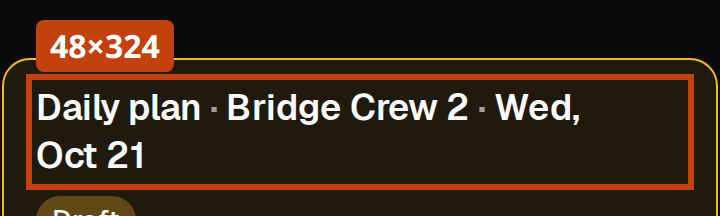
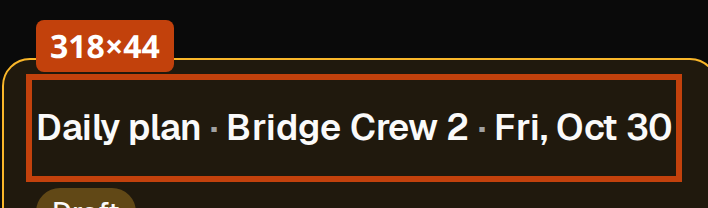
5.0.4: show the one-line 390 plan link at 318x23 and 318x44
Fri, Oct 30 fits on one line, which is the rc height miss. The 390 crops use that date on both sides, and the e2e creates the same date so the 44px check fails on rc for height.

diff --git a/v5/tests/e2e/rc-504-verify-fixes.spec.ts b/v5/tests/e2e/rc-504-verify-fixes.spec.ts
@@ -168,6 +168,44 @@ test.describe("5.0.4 rc verify fixes", () => {
     });
   }
 
+  test("superintendent: one-line Fri, Oct 30 plan link is 44px tall at 390", async ({
+    page,
+  }) => {
+    // Pinned seed tomorrow is "Wed, Oct 21", which wraps to ~47px and
+    // already clears 44px. Fri, Oct 30 fits on one line, so rc is ~23px tall.
+    await page.setViewportSize({ width: 390, height: 844 });
+    await signIn(page, "superintendent");
+    await page.goto("/app/jobs/25-031");
+    await page.getByTestId("new-plan").click();
+    const form = page.getByTestId("new-plan-form");
+    await form.getByTestId("new-plan-crew").selectOption({ label: "Bridge Crew 2" });
+    await form.getByTestId("new-plan-date").fill("2026-10-30");
+    await form.getByTestId("new-plan-submit").click();
+    const link = page
+      .getByTestId("plan-detail-link")
+      .filter({ hasText: "Fri, Oct 30" });
+    await expect(link).toBeVisible({ timeout: 15_000 });
+    const box = await link.evaluate((el) => {
+      const r = el.getBoundingClientRect();
+      const range = document.createRange();
+      range.selectNodeContents(el);
+      const textRects = [...range.getClientRects()].filter(
+        (box) => box.width > 2 && box.height > 0 && box.height < 36,
+      );
+      const tops = new Set(textRects.map((box) => Math.round(box.top)));
+      return {
+        width: Math.round(r.width),
+        height: Math.round(r.height),
+        lineTops: tops.size,
+        text: (el as HTMLElement).innerText.replace(/\s+/g, " ").trim(),
+      };
+    });
+    expect(box.text).toContain("Daily plan · Bridge Crew 2 · Fri, Oct 30");
+    expect(box.lineTops, JSON.stringify(box)).toBe(1);
+    expect(box.width, JSON.stringify(box)).toBeGreaterThanOrEqual(44);
+    expect(box.height, JSON.stringify(box)).toBeGreaterThanOrEqual(44);
+  });
+
   for (const [width, height] of [
     [320, 568],
     [768, 1024],
